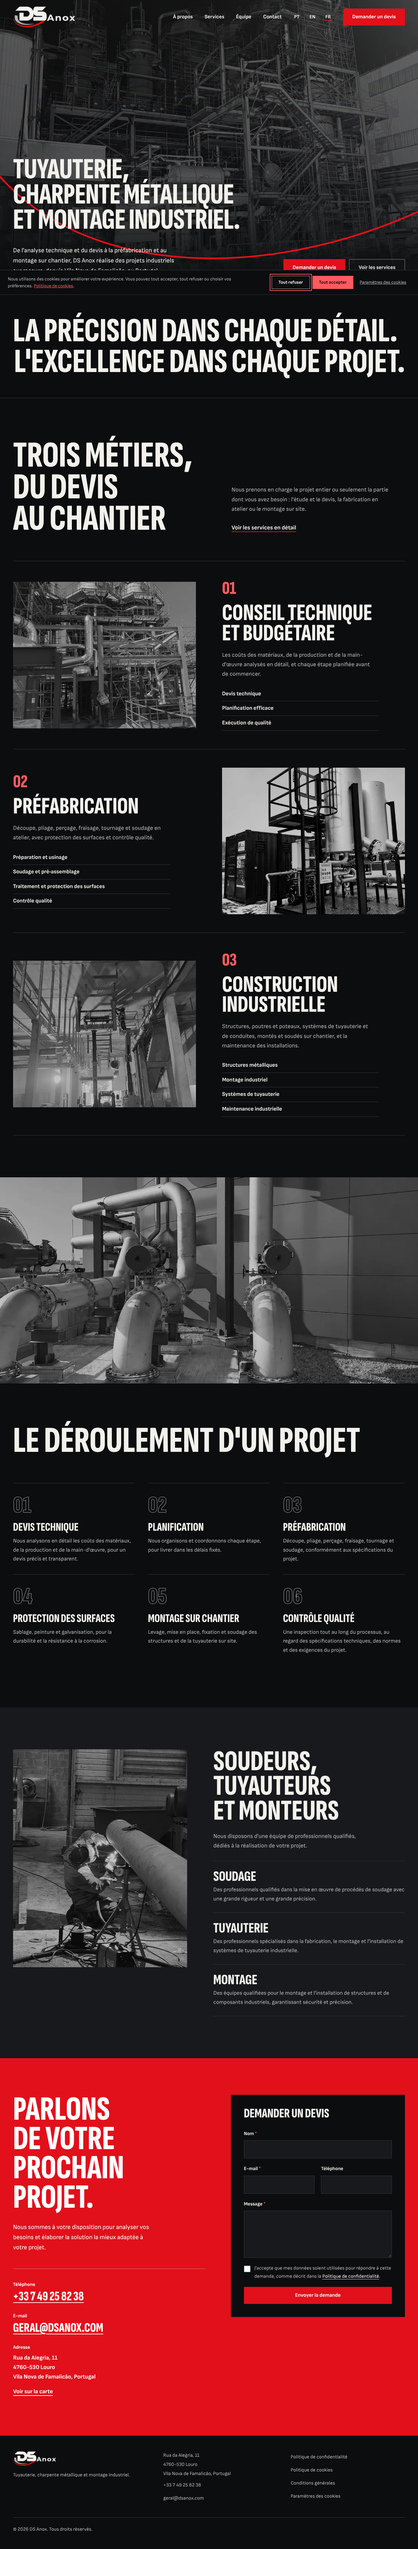
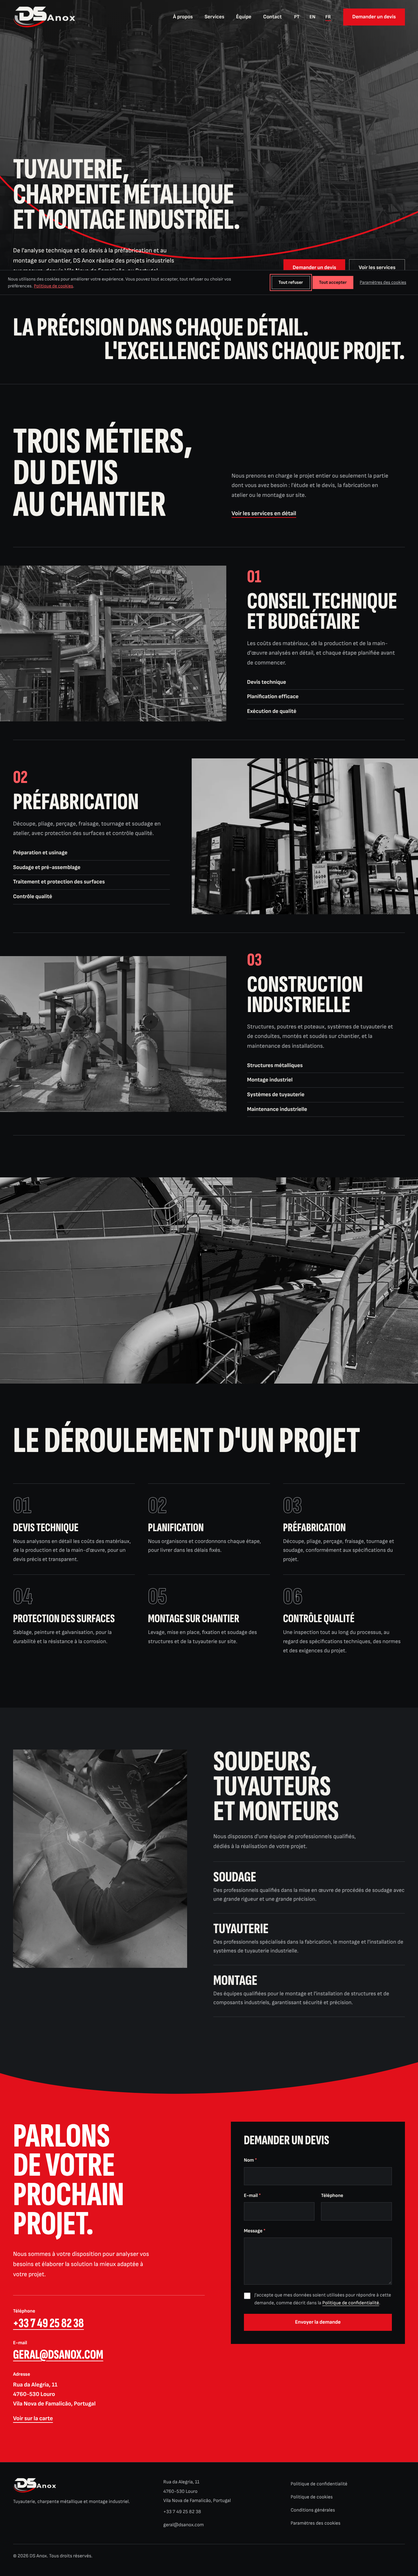
DS Anox: reparos da segunda ronda do crítico (arco, fotografias das áreas até à margem, curva nas faixas vermelhas, quebras dos títulos)
Claude-Session: https://claude.ai/code/session_013JnV1hQqQQvBKGuUqzVy2v

diff --git a/src/styles/site.css b/src/styles/site.css
@@ -176,14 +176,18 @@
 	.heroi .fundo {
 		@apply absolute inset-0 -z-10;
 	}
+	/* The photographs of a first screen come already darkened (src/assets/fotos/topo). */
+	.heroi .figure img {
+		filter: grayscale(1);
+	}
 	.heroi .fundo::after {
 		content: "";
 		@apply absolute inset-0;
 		background: linear-gradient(
 			to top,
 			var(--color-night) 4%,
-			color-mix(in srgb, var(--color-night) 55%, transparent) 45%,
-			color-mix(in srgb, var(--color-night) 35%, transparent)
+			color-mix(in srgb, var(--color-night) 30%, transparent) 45%,
+			transparent
 		);
 	}
 	.heroi h1 {
@@ -206,11 +210,10 @@
 	.heroi.interior .fundo::after {
 		background: linear-gradient(to top, var(--color-night) 2%, transparent 45%);
 	}
-	.heroi.interior .figure img {
-		filter: grayscale(1);
-	}
+
+	/* The arc crosses the photograph above the title. */
 	.heroi.interior .arco {
-		@apply inset-y-0 h-full;
+		@apply top-[12%] bottom-auto h-[46%];
 	}
 	.heroi.interior {
 		@apply pb-0 md:pb-0;
@@ -226,7 +229,7 @@
 	}
 	/* The arc of the logo, drawn across the first screen. */
 	.arco {
-		@apply pointer-events-none absolute inset-x-0 bottom-0 -z-10 h-[70%] w-full;
+		@apply pointer-events-none absolute inset-x-0 top-[10%] -z-10 h-[34%] w-full md:top-auto md:bottom-0 md:h-[70%];
 	}
 	.arco path {
 		fill: none;
@@ -242,7 +245,7 @@
 		@apply border-y border-line py-10 md:py-16;
 	}
 	.lema p {
-		@apply font-display text-[2.25rem] uppercase leading-[0.9] md:text-[6.5rem];
+		@apply font-display text-[2.25rem] uppercase leading-[0.9] md:text-[5rem];
 	}
 	.lema p + p {
 		@apply md:text-right;
@@ -263,10 +266,17 @@
 		@apply mt-12 border-t border-line md:mt-20;
 	}
 	.areas > li {
-		@apply grid gap-8 border-b border-line py-10 md:py-14 lg:grid-cols-2 lg:items-center lg:gap-20;
+		@apply grid gap-8 border-b border-line py-10 md:py-14 lg:grid-cols-[1.35fr_1fr] lg:items-center lg:gap-16;
+	}
+	.areas > li:nth-child(even) {
+		@apply lg:grid-cols-[1fr_1.35fr];
+	}
+	/* The photograph of each area runs to the edge of the page. */
+	.areas > li:nth-child(odd) .figure {
+		@apply -mx-5 md:-ml-10 md:mr-0;
 	}
 	.areas > li:nth-child(even) .figure {
-		@apply lg:order-2;
+		@apply -mx-5 md:ml-0 md:-mr-10 lg:order-2;
 	}
 	.areas .num {
 		@apply block font-display text-[2.5rem] leading-none text-accent-soft md:text-[3.5rem];
@@ -281,7 +291,7 @@
 		@apply border-b border-line pb-2 font-bold;
 	}
 	.areas .figure {
-		@apply aspect-[4/3] lg:aspect-[5/4];
+		@apply aspect-[4/3] lg:aspect-[16/11];
 	}
 	.areas .figure img {
 		@apply transition-transform duration-700 ease-out;
@@ -330,7 +340,15 @@
 
 	/* The red band that closes a page: the invitation on one side, the form on the other. */
 	.contacto {
-		@apply bg-accent py-20 text-accent-ink md:py-28;
+		@apply bg-accent pb-20 text-accent-ink md:pb-28;
+	}
+	/* The top edge of a red band is the curve of the logo. */
+	.curva {
+		@apply mb-12 block h-16 w-full md:mb-16 md:h-32;
+		fill: var(--color-night);
+	}
+	.bg-steel + .contacto .curva {
+		fill: var(--color-steel);
 	}
 	.contacto > .limite {
 		@apply grid gap-14 lg:grid-cols-[1.1fr_1fr] lg:gap-20;
@@ -424,7 +442,7 @@
 		@apply mt-8 max-w-[52ch] text-[1.1875rem] text-ink-2;
 	}
 	.chamada {
-		@apply bg-accent py-16 text-accent-ink md:py-24;
+		@apply bg-accent pb-16 text-accent-ink md:pb-24;
 	}
 	.chamada .botao-cheio {
 		@apply bg-night text-ink hover:bg-ink hover:text-night;
@@ -436,7 +454,7 @@
 		@apply font-display text-[2.5rem] leading-none text-accent-soft;
 	}
 	.pilares h3 {
-		@apply mt-4 text-[3rem] md:text-[4rem];
+		@apply mt-4 text-[2.5rem] md:text-[3rem];
 	}
 	.pilares p {
 		@apply mt-4 text-[1.0625rem] text-ink-2;

diff --git a/src/textos/en.ts b/src/textos/en.ts
@@ -41,7 +41,7 @@ const en: Textos = {
 		contact: "Contact",
 	},
 	hero: {
-		lines: ["Industrial piping,", "steel structures", "and on‑site assembly."],
+		lines: ["Industrial piping,", "steel structures", "and on-site assembly."],
 		lede: "From technical analysis and estimate to prefabrication and assembly on site, DS Anox delivers custom industrial projects from Vila Nova de Famalicão, Portugal.",
 		primary: "Request a quote",
 		secondary: "See our services",
@@ -73,7 +73,7 @@ const en: Textos = {
 				text: "Cutting, bending, drilling, milling, turning and welding in the workshop, with surface protection and quality control.",
 				items: [
 					"Preparation and machining",
-					"Welding and pre‑assembly",
+					"Welding and pre-assembly",
 					"Surface treatment and protection",
 					"Quality control",
 				],
@@ -132,7 +132,7 @@ const en: Textos = {
 		],
 	},
 	team: {
-		title: "Welders, pipefitters and assemblers",
+		title: "Welders, pipefitters and assemblers",
 		intro:
 			"We have a team of qualified professionals, dedicated to carrying out your project.",
 		roles: [
@@ -174,7 +174,7 @@ const en: Textos = {
 			"We create customised engineering solutions focused on performance, durability and excellence, building relationships of trust based on quality and innovation.",
 		],
 		bodyTitle: "From a complex requirement to the finished solution.",
-		pillarsTitle: "Mission, vision and principles",
+		pillarsTitle: "What guides us",
 		pillars: [
 			{
 				name: "Mission",
@@ -212,7 +212,7 @@ const en: Textos = {
 		title: "From technical estimate to assembly on site.",
 	},
 	teamPage: {
-		title: "Welders, pipefitters and assemblers.",
+		title: "Welders, pipefitters and assemblers.",
 	},
 	cta: {
 		title: "Have a project to quote?",
@@ -232,7 +232,7 @@ const en: Textos = {
 		back: "Back to the home page",
 	},
 	footer: {
-		line: "Industrial piping, steel structures and on‑site assembly.",
+		line: "Industrial piping, steel structures and on-site assembly.",
 		rights: "All rights reserved.",
 		privacy: "Privacy policy",
 		cookies: "Cookie policy",

diff --git a/src/textos/pt.ts b/src/textos/pt.ts
@@ -71,7 +71,7 @@ const pt = {
 				text: "Corte, dobragem, perfuração, fresagem, torneamento e soldadura em oficina, com proteção de superfícies e controlo de qualidade.",
 				items: [
 					"Preparação e maquinação",
-					"Soldadura e pré‑montagem",
+					"Soldadura e pré-montagem",
 					"Tratamento e proteção de superfícies",
 					"Controlo de qualidade",
 				],
@@ -130,7 +130,7 @@ const pt = {
 		],
 	},
 	team: {
-		title: "Soldadores, tubistas e montadores",
+		title: "Soldadores, tubistas e montadores",
 		intro:
 			"Dispomos de uma equipa de profissionais qualificados, dedicados à realização do seu projeto.",
 		roles: [
@@ -149,7 +149,7 @@ const pt = {
 		],
 	},
 	contact: {
-		title: "Vamos falar sobre o seu próximo projeto.",
+		title: "Vamos falar sobre o seu próximo projeto.",
 		formTitle: "Pedir orçamento",
 		send: "Enviar pedido",
 		text: "Estamos disponíveis para analisar as suas necessidades e desenvolver a solução mais adequada ao seu projeto.",
@@ -172,7 +172,7 @@ const pt = {
 			"Criamos soluções de engenharia à medida, orientadas para o desempenho, a durabilidade e a excelência, construindo relações de confiança baseadas na qualidade e na inovação.",
 		],
 		bodyTitle: "Do requisito complexo à solução executada.",
-		pillarsTitle: "Missão, visão e princípios",
+		pillarsTitle: "O que nos orienta",
 		pillars: [
 			{
 				name: "Missão",
@@ -208,10 +208,10 @@ const pt = {
 		},
 	},
 	servicesPage: {
-		title: "Do orçamento técnico à montagem em obra.",
+		title: "Do orçamento técnico à montagem em obra.",
 	},
 	teamPage: {
-		title: "Soldadores, tubistas e montadores.",
+		title: "Soldadores, tubistas e montadores.",
 	},
 	cta: {
 		title: "Tem um projeto para orçamentar?",
@@ -219,7 +219,7 @@ const pt = {
 	},
 	thanks: {
 		seoTitle: "Mensagem enviada | DS Anox",
-		title: "Recebemos o seu pedido.",
+		title: "Recebemos o seu pedido.",
 		text: "Vamos analisá-lo e responder para o email que indicou.",
 		call: "Para um assunto urgente, ligue para o",
 		back: "Voltar ao início",

diff --git a/src/textos/fr.ts b/src/textos/fr.ts
@@ -52,7 +52,7 @@ const fr: Textos = {
 		"L'excellence dans chaque projet.",
 	],
 	services: {
-		title: "Trois métiers, du devis au chantier",
+		title: "Trois métiers, du devis au chantier",
 		more: "Voir les services en détail",
 		intro:
 			"Nous prenons en charge le projet entier ou seulement la partie dont vous avez besoin : l'étude et le devis, la fabrication en atelier ou le montage sur site.",
@@ -76,7 +76,7 @@ const fr: Textos = {
 				text: "Découpe, pliage, perçage, fraisage, tournage et soudage en atelier, avec protection des surfaces et contrôle qualité.",
 				items: [
 					"Préparation et usinage",
-					"Soudage et pré‑assemblage",
+					"Soudage et pré-assemblage",
 					"Traitement et protection des surfaces",
 					"Contrôle qualité",
 				],
@@ -135,7 +135,7 @@ const fr: Textos = {
 		],
 	},
 	team: {
-		title: "Soudeurs, tuyauteurs et monteurs",
+		title: "Soudeurs, tuyauteurs et monteurs",
 		intro:
 			"Nous disposons d'une équipe de professionnels qualifiés, dédiés à la réalisation de votre projet.",
 		roles: [
@@ -177,7 +177,7 @@ const fr: Textos = {
 			"Nous créons des solutions d'ingénierie sur mesure, axées sur la performance, la durabilité et l'excellence, en établissant des relations de confiance fondées sur la qualité et l'innovation.",
 		],
 		bodyTitle: "De l'exigence complexe à la solution réalisée.",
-		pillarsTitle: "Mission, vision et principes",
+		pillarsTitle: "Ce qui nous guide",
 		pillars: [
 			{
 				name: "Mission",
@@ -215,7 +215,7 @@ const fr: Textos = {
 		title: "Du devis technique au montage sur chantier.",
 	},
 	teamPage: {
-		title: "Soudeurs, tuyauteurs et monteurs.",
+		title: "Soudeurs, tuyauteurs et monteurs.",
 	},
 	cta: {
 		title: "Un projet à chiffrer ?",

diff --git a/docs/portao.md b/docs/portao.md
@@ -1,6 +1,6 @@
 # Portões medidos: DS Anox
 
-Corrido a 2026-11-15 13:20 UTC com `pnpm portao`.
+Corrido a 2026-11-15 13:42 UTC com `pnpm portao`.
 
 **Passam todos os portões corridos.**
 
@@ -16,32 +16,32 @@ Corrido a 2026-11-15 13:20 UTC com `pnpm portao`.
 
 | Página                            | Desempenho | Acessibilidade | Boas práticas | SEO    | LCP     | CLS   | Peso   |
 | --------------------------------- | ---------- | -------------- | ------------- | ------ | ------- | ----- | ------ |
-| /                                 | 100        | 100            | 100           | 100    | 1410 ms | 0.000 | 759 kB |
+| /                                 | 100        | 100            | 100           | 100    | 1352 ms | 0.000 | 527 kB |
 | /contactos/                       | 100        | 100            | 100           | 100    | 1201 ms | 0.000 | 121 kB |
-| /en/                              | 100        | 100            | 100           | 100    | 1352 ms | 0.000 | 758 kB |
-| /en/about/                        | 99         | 100            | 100           | 100    | 2102 ms | 0.000 | 142 kB |
-| /en/contact/                      | 100        | 100            | 100           | 100    | 1201 ms | 0.000 | 120 kB |
-| /en/cookie-policy/                | 100        | 100            | 100           | 100    | 1202 ms | 0.000 | 115 kB |
-| /en/privacy-policy/               | 100        | 100            | 100           | 100    | 1202 ms | 0.000 | 116 kB |
-| /en/services/                     | 99         | 100            | 100           | 100    | 2180 ms | 0.000 | 452 kB |
-| /en/team/                         | 99         | 100            | 100           | 100    | 2104 ms | 0.000 | 399 kB |
-| /en/terms/                        | 100        | 100            | 100           | 100    | 1052 ms | 0.000 | 115 kB |
-| /en/thank-you/                    | 100        | 100            | 100           | oculta | 1202 ms | 0.000 | 115 kB |
-| /equipa/                          | 99         | 100            | 100           | 100    | 2177 ms | 0.000 | 400 kB |
-| /fr/                              | 100        | 100            | 100           | 100    | 1351 ms | 0.000 | 574 kB |
-| /fr/a-propos/                     | 99         | 100            | 100           | 100    | 1953 ms | 0.000 | 142 kB |
-| /fr/conditions-generales/         | 100        | 100            | 100           | 100    | 1200 ms | 0.000 | 116 kB |
-| /fr/contact/                      | 100        | 100            | 100           | 100    | 1206 ms | 0.000 | 121 kB |
-| /fr/equipe/                       | 98         | 100            | 100           | 100    | 2327 ms | 0.000 | 400 kB |
-| /fr/merci/                        | 100        | 100            | 100           | oculta | 1051 ms | 0.000 | 115 kB |
-| /fr/politique-de-confidentialite/ | 100        | 100            | 100           | 100    | 1202 ms | 0.000 | 117 kB |
-| /fr/politique-de-cookies/         | 100        | 100            | 100           | 100    | 1201 ms | 0.000 | 116 kB |
-| /fr/services/                     | 99         | 100            | 100           | 100    | 2104 ms | 0.000 | 358 kB |
-| /obrigado/                        | 100        | 100            | 100           | oculta | 1201 ms | 0.000 | 115 kB |
-| /politica-de-cookies/             | 100        | 100            | 100           | 100    | 1204 ms | 0.000 | 116 kB |
-| /politica-de-privacidade/         | 100        | 100            | 100           | 100    | 1052 ms | 0.000 | 117 kB |
-| /servicos/                        | 99         | 100            | 100           | 100    | 2180 ms | 0.000 | 453 kB |
-| /sobre-nos/                       | 99         | 100            | 100           | 100    | 2103 ms | 0.000 | 142 kB |
-| /termos-e-condicoes/              | 100        | 100            | 100           | 100    | 1201 ms | 0.000 | 116 kB |
+| /en/                              | 100        | 100            | 100           | 100    | 1353 ms | 0.000 | 527 kB |
+| /en/about/                        | 99         | 100            | 100           | 100    | 2103 ms | 0.000 | 293 kB |
+| /en/contact/                      | 100        | 100            | 100           | 100    | 1351 ms | 0.000 | 121 kB |
+| /en/cookie-policy/                | 100        | 100            | 100           | 100    | 1203 ms | 0.000 | 116 kB |
+| /en/privacy-policy/               | 100        | 100            | 100           | 100    | 1202 ms | 0.000 | 117 kB |
+| /en/services/                     | 99         | 100            | 100           | 100    | 2101 ms | 0.000 | 376 kB |
+| /en/team/                         | 99         | 100            | 100           | 100    | 2178 ms | 0.000 | 414 kB |
+| /en/terms/                        | 100        | 100            | 100           | 100    | 1202 ms | 0.000 | 116 kB |
+| /en/thank-you/                    | 100        | 100            | 100           | oculta | 1052 ms | 0.000 | 116 kB |
+| /equipa/                          | 99         | 100            | 100           | 100    | 2181 ms | 0.000 | 414 kB |
+| /fr/                              | 100        | 100            | 100           | 100    | 1352 ms | 0.000 | 527 kB |
+| /fr/a-propos/                     | 99         | 100            | 100           | 100    | 2102 ms | 0.000 | 294 kB |
+| /fr/conditions-generales/         | 100        | 100            | 100           | 100    | 1201 ms | 0.000 | 117 kB |
+| /fr/contact/                      | 100        | 100            | 100           | 100    | 1201 ms | 0.000 | 122 kB |
+| /fr/equipe/                       | 98         | 100            | 100           | 100    | 2328 ms | 0.000 | 414 kB |
+| /fr/merci/                        | 100        | 100            | 100           | oculta | 1203 ms | 0.000 | 116 kB |
+| /fr/politique-de-confidentialite/ | 100        | 100            | 100           | 100    | 1201 ms | 0.000 | 118 kB |
+| /fr/politique-de-cookies/         | 100        | 100            | 100           | 100    | 1201 ms | 0.000 | 117 kB |
+| /fr/services/                     | 99         | 100            | 100           | 100    | 2178 ms | 0.000 | 377 kB |
+| /obrigado/                        | 100        | 100            | 100           | oculta | 1203 ms | 0.000 | 116 kB |
+| /politica-de-cookies/             | 100        | 100            | 100           | 100    | 1202 ms | 0.000 | 116 kB |
+| /politica-de-privacidade/         | 100        | 100            | 100           | 100    | 1201 ms | 0.000 | 117 kB |
+| /servicos/                        | 98         | 100            | 100           | 100    | 2251 ms | 0.000 | 376 kB |
+| /sobre-nos/                       | 99         | 100            | 100           | 100    | 2101 ms | 0.000 | 294 kB |
+| /termos-e-condicoes/              | 100        | 100            | 100           | 100    | 1053 ms | 0.000 | 117 kB |
 
 Os portões dos factos, do remake e do crítico, e a aprovação, fazem-se com a skill site-rever.
